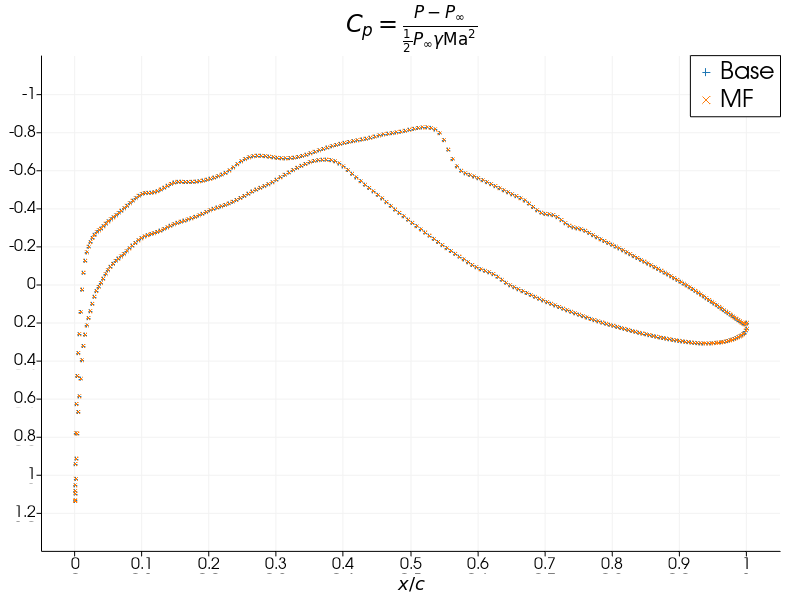
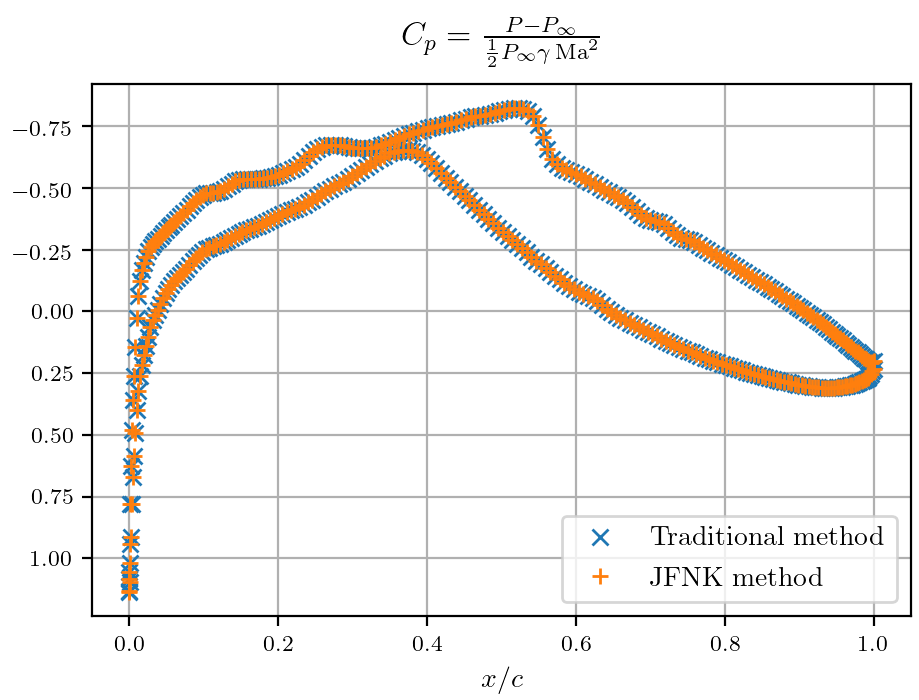
Move rae_cp from paraview to matplotlib

diff --git a/figures/figures_matplotlib.py b/figures/figures_matplotlib.py
@@ -5,7 +5,7 @@ import matplotlib.pyplot as plt
 import numpy as np
 import scipy.linalg
 import scipy.special
-from postprocess import bibarch, utils, jaguar_tools
+from postprocess import bibarch, utils, jaguar_tools, pvlib
 
 plt.rcParams.update({
     'xtick.labelsize': 8,
@@ -410,6 +410,33 @@ def fig_eps():
         fig2.savefig('epsilon_Burgers.png')
         fig.savefig('epsilon_Euler.png')
         # plt.show()
+
+
+def rae_cp():
+    fig = plt.figure(figsize=[4.6, 3.5])
+    ax = fig.add_subplot(111)
+    ax.grid(True)
+    ax.set_xlabel('$x/c$')
+    ax.set_title(r'$C_p = \frac{{ P - P_\infty }}{{ \frac{{1}}{{2}} P_\infty \gamma \operatorname{{Ma}}^2 }} $')
+
+    plotter = pvlib.Plotter()
+
+    def cp(pressure):
+        return ((pressure / 26500) - 1) * 2 / (1.4 * 0.75 ** 2)
+
+    reader, _, _ = plotter.load_data("/scratchm/pseize/RAE_2822/BASE/INIT/ENSIGHT/archive_CHARME.surf.ins.case", ['P'])
+    coord, p = pvlib.get_point_data(reader, 'P', plotter.find_blocks(reader, ['Intrados', 'Extrados']))
+    ax.plot(coord[:, 0], cp(p), 'x', label='Traditional method')
+
+    reader, _, _ = plotter.load_data("/scratchm/pseize/RAE_2822/MF/RUN_1/ENSIGHT/archive_CHARME.surf.ins.case", ['P'])
+    coord, p = pvlib.get_point_data(reader, 'P', plotter.find_blocks(reader, ['Intrados', 'Extrados']))
+    ax.plot(coord[:, 0], cp(p), '+', label='JFNK method')
+    ax.invert_yaxis()
+    ax.legend()
+
+    fig.subplots_adjust(0.1, 0.12, 0.99, 0.88)
+    fig.savefig('rae_cp.png')
+    # plt.show()
 
 
 def rae_coefficients():
@@ -964,6 +991,7 @@ if __name__ == '__main__':
     # bdf_stab()
     # preconditioning()
     # fig_eps()
+    # rae_cp()
     # rae_coefficients()
     # rae_residuals()
     # sd_discontinuous()

diff --git a/figures/figures_paraview.py b/figures/figures_paraview.py
@@ -70,22 +70,6 @@ def rae_field():
     # pvs.SaveScreenshot("rae_field.png", view)
 
 
-def rae_cp():
-    plotter = pvlib.CpPlotter(view_size=(800, 600), xlabel='$x/c$', ylabel='',
-                              title=r'$C_p = \frac{{ P - P_\infty }}'
-                                    r'{{ \frac{{1}}{{2}} P_\infty \gamma \operatorname{{Ma}}^2 }} $')
-    plotter.view.ChartTitleFontSize = 24
-    plotter.view.LeftAxisLabelFontSize = 16
-    plotter.view.BottomAxisLabelFontSize = 16
-    plotter.view.LegendFontSize = 24
-    plotter.register_plot("/scratchm/pseize/RAE_2822/BASE/RUN_1/ENSIGHT/archive_CHARME.surf.ins.case",
-                          p_inf=26500, gamma=1.4, mach=0.75, block_name=['Intrados', 'Extrados'], label='Base')
-    plotter.register_plot("/scratchm/pseize/RAE_2822/MF/RUN_1/ENSIGHT/archive_CHARME.surf.ins.case", marker=1,
-                          p_inf=26500, gamma=1.4, mach=0.75, block_name=['Intrados', 'Extrados'], label='MF')
-    plotter.draw(duration=0, block=True)
-    # pvs.SaveScreenshot("rae_cp.png", plotter.view)
-
-
 def rae_mesh_fine():
     filename = "/scratchm/pseize/RAE_2822_FINE/BASE/INIT/ENSIGHT/archive_CHARME.volu.ins.case"
     plotter = pvlib.Plotter()
@@ -276,7 +260,6 @@ def tgv_fields():
 if __name__ == '__main__':
     # rae_mesh()
     # rae_field()
-    # rae_cp()
     # rae_mesh_fine()
     # covo_cedre_mesh()
     # covo_cedre_fields()

diff --git a/3.tex b/3.tex
@@ -112,7 +112,7 @@
 
         \begin{figure}
           \centering
-          \includegraphics[width=0.7\textwidth]{figures/rae_cp.png}
+          \includegraphics{figures/rae_cp.png}
           \caption{Pressure coefficient around the airfoil for the traditional method (blue) and the JFNK method (orange).}
           \label{fig:rae_cp}
         \end{figure}
@@ -297,7 +297,7 @@
         Even if this case looks simplistic, it should not be taken lightly.
         When using unfit spatial discretisation methods, we ended up with a well-known problem of a such simulation called carbuncle \cite{MacCormack2013}.
         This phenomenon does not come from physics but is solely due to numerical methods.
-        It is shown in figure \ref{fig:sphere_carbuncle}.
+        It is shown in figure \ref{fig:sphere_carbuncle} from some of our earlier computations that were using a different mesh.
         Simply put, it creates a recirculation bubble downstream of the shock, near the stagnation point.
         This bubble tends to push the shock farther from the sphere, and modify greatly the heat flux at this location.
         The choice of the Riemann solver ended up being the key element to getting rid of this undesirable effect: there is no recirculation with the AUSM+ scheme.
